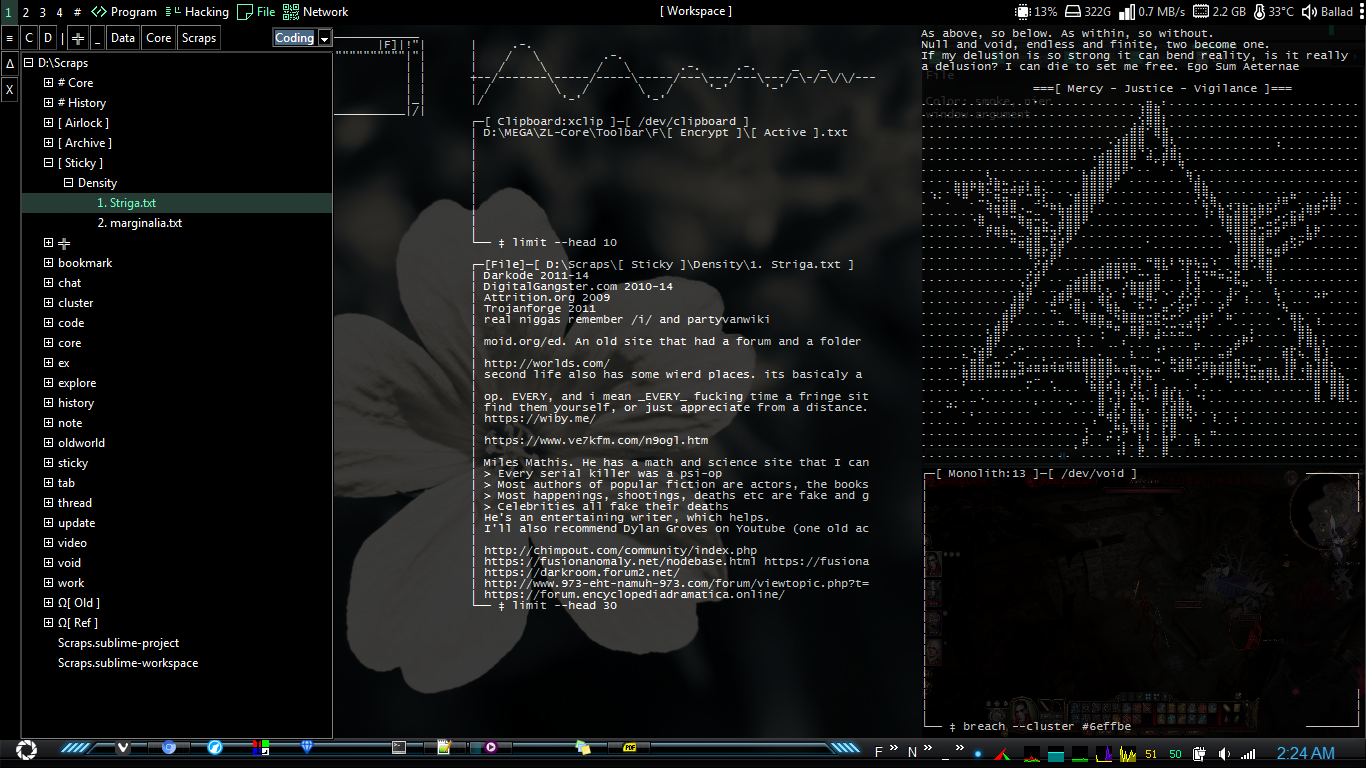
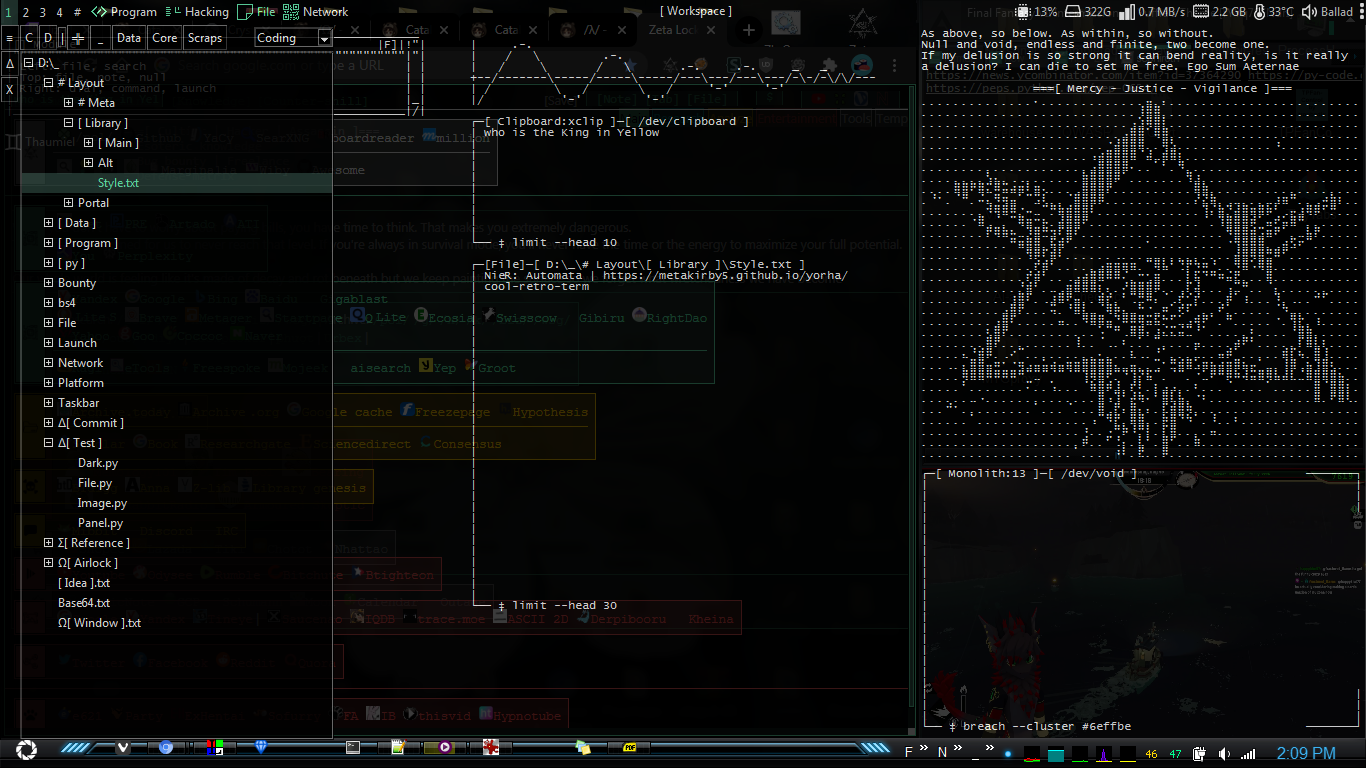
re-formatting module

diff --git a/[ Core ]/[ Program ]/Void.py b/[ Core ]/[ Program ]/Void.py
@@ -1,7 +1,6 @@
 import Zeta
 from Zeta.Image import Icon
-from Zeta.Panel.Window import Fallback as Panel
-from Zeta.Panel.Control.File import FileBox
+from Zeta.Panel import *
 
 import time
 import os
@@ -47,10 +46,11 @@ sidebarext.configure(bg=colorbg)
 sidebarext.withdraw()
 
 #root = Tk()
-# root = Toplevel(sidebar)
-root = Panel(color2='white', mode='basic')
+root = Toplevel(sidebar)
+# root = Window(color2='white', mode='basic')
 root.title('===[ Sidebar: File ]===')
 root.attributes('-topmost', True)
+root.attributes('-alpha', 0.77)
 root.geometry("333x715+1+25")
 root.overrideredirect(1)
 #root.option_add("*tearOff", False)
@@ -91,6 +91,7 @@ def toggle_overflow():
 	overflow_on = not overflow_on
 taskbar = Toplevel(sidebar)
 taskbar.attributes('-topmost', True)
+taskbar.attributes('-alpha', 0.77)
 taskbar.title('Taskbar')
 taskbar.geometry("1366x25+1+0")
 taskbar.overrideredirect(1)
@@ -152,6 +153,8 @@ msg1=r''' __________________________________________________________
 | Right: dial, command, launch                           | |
 |                                                        |_|
 |________________________________________________________|/|
+
+
 '''
 msg2=r'''
 |     .-.
@@ -345,7 +348,7 @@ class Controller():
 	def toggle_sidebar(child): toggle_sidebar()
 	def preview_file(child, path): preview_file(path)
 
-File1 = FileBox(root.frame, home=home, darkmode=True, controller=Controller())
+File1 = FileBox(root, home=home, darkmode=True, controller=Controller())
 
 #-------------------------------------------------------------------------------
 

diff --git a/_/[ Program ]/Void.py b/_/[ Program ]/Void.py
@@ -1,7 +1,6 @@
 import Zeta
 from Zeta.Image import Icon
-from Zeta.Panel.Window import Fallback as Panel
-from Zeta.Panel.Control.File import FileBox
+from Zeta.Panel import *
 
 import time
 import os
@@ -47,10 +46,11 @@ sidebarext.configure(bg=colorbg)
 sidebarext.withdraw()
 
 #root = Tk()
-# root = Toplevel(sidebar)
-root = Panel(color2='white', mode='basic')
+root = Toplevel(sidebar)
+# root = Window(color2='white', mode='basic')
 root.title('===[ Sidebar: File ]===')
 root.attributes('-topmost', True)
+root.attributes('-alpha', 0.77)
 root.geometry("333x715+1+25")
 root.overrideredirect(1)
 #root.option_add("*tearOff", False)
@@ -91,6 +91,7 @@ def toggle_overflow():
 	overflow_on = not overflow_on
 taskbar = Toplevel(sidebar)
 taskbar.attributes('-topmost', True)
+taskbar.attributes('-alpha', 0.77)
 taskbar.title('Taskbar')
 taskbar.geometry("1366x25+1+0")
 taskbar.overrideredirect(1)
@@ -152,6 +153,8 @@ msg1=r''' __________________________________________________________
 | Right: dial, command, launch                           | |
 |                                                        |_|
 |________________________________________________________|/|
+
+
 '''
 msg2=r'''
 |     .-.
@@ -345,7 +348,7 @@ class Controller():
 	def toggle_sidebar(child): toggle_sidebar()
 	def preview_file(child, path): preview_file(path)
 
-File1 = FileBox(root.frame, home=home, darkmode=True, controller=Controller())
+File1 = FileBox(root, home=home, darkmode=True, controller=Controller())
 
 #-------------------------------------------------------------------------------
 

diff --git a/[ Core ]/[ Program ]/[ Package ]/Zeta/Panel/Window.py b/[ Core ]/[ Program ]/[ Package ]/Zeta/Panel/Window.py
@@ -3,7 +3,7 @@ import Zeta
 from tkinter import *
 from .Toplevel2 import Toplevel2
 
-class Panel(Toplevel2):
+class Primary(Toplevel2):
     def __init__(self, draggable=False, border='mono', color=7, color2='', mode='basic', style='even', title='Title', *args, **kwargs):
         neon = Zeta.Color.Neon(color=color, color2=color2).hex
         hue = Zeta.Color.Neon(color=color, color2=color2).hue
@@ -21,7 +21,7 @@ class Panel(Toplevel2):
         gradient_frame = ColorFrame(self, color=color, color2=color2)
         gradient_frame.pack(side="top", fill="both", expand=True)
 
-        if mode=='basic': from .Wbasic import Decoration as ControlFrame
+        if mode=='basic': from .Decoration import Basic as ControlFrame
         if mode!='border':
             control_frame = ControlFrame(gradient_frame, color=color, color2=color2, title=title)
             control_frame.pack(side="top", fill="both", expand=True, padx=5, pady=5)
@@ -48,7 +48,7 @@ class Fallback(Toplevel2):
         #frame1['highlightthickness'] = 1
         frame1['background'] = neon
 
-        if mode=='basic': from .Wbasic import Decoration as ControlFrame
+        if mode=='basic': from .Decoration import Basic as ControlFrame
         if mode!='border':
             control_frame = ControlFrame(frame1, color=color, color2=color2, title=title)
             control_frame.pack(side="top", fill="both", expand=True, padx=1, pady=1)

diff --git a/[ Core ]/[ Program ]/[ Package ]/Zeta/Panel/Control/File.py b/[ Core ]/[ Program ]/[ Package ]/Zeta/Panel/Control/File.py
@@ -158,16 +158,15 @@ class FileBox(Frame):
 			self.populate_masters(self.tree)
 
 	def menu_detach(self):
-		from Zeta.Panel.Window import Panel
-		from Zeta.Panel.Control.File import FileBox as DetachBox
+		import Zeta.Panel
 		panelcolor = self.color2 if self.neonmode else self.colorfg
 		path = self.fullpath if os.path.isdir(self.fullpath) else os.path.split(self.fullpath)[0]
 
-		detached = Panel(border='mono', color2=panelcolor, mode='basic')
+		detached = Zeta.Panel.Window(border='mono', color2=panelcolor, mode='basic')
 		detached.attributes('-topmost', True)
 		detached.geometry("+333+25")
 		detached.attributes('-alpha', 0.77)
-		DetachBox(detached.frame, color2=self.color2, home=path, controller=self.parent, darkmode=self.darkmode, neonmode=self.neonmode)
+		Zeta.Panel.FileBox(detached.frame, color2=self.color2, home=path, controller=self.parent, darkmode=self.darkmode, neonmode=self.neonmode)
 
 	def menu_clear():
 		#os.execv(sys.argv[0], sys.argv)

diff --git a/[ Core ]/[ Program ]/[ Package ]/Zeta/Δ[ Test ]/File.py b/[ Core ]/[ Program ]/[ Package ]/Zeta/Δ[ Test ]/File.py
@@ -17,14 +17,14 @@ hue = Zeta.Color.Neon(color2='green').hue
 controller1 = Controller()
 
 imgx = Icon.Load(icon='alchemybw', icontype='bw').image
-frame1 = Frame(x1)
+frame1 = Frame(x1.frame)
 #imgx = Zeta.Image.Icon.Load(icon='alchemybw', icontype='bw').image
-b1 = Button(x1, text="Close", background=hue, relief='flat', command=x1.window.destroy, image=imgx)
+b1 = Button(x1.frame, text="Close", background=hue, relief='flat', command=x1.destroy, image=imgx)
 b1.pack(side="top")
 frame1.pack(side="top")
 
-FileBox(frame1, home=r'D:\Data', color2='green', darkmode=True, neonmode=True)
+FileBox(frame1, home=r'D:\Data', darkmode=True, neonmode=True, color2='green')
 
-x1.window.mainloop()
+x1.mainloop()
 
 

diff --git a/_/Δ[ Test ]/File.py b/_/Δ[ Test ]/File.py
@@ -17,14 +17,14 @@ hue = Zeta.Color.Neon(color2='green').hue
 controller1 = Controller()
 
 imgx = Icon.Load(icon='alchemybw', icontype='bw').image
-frame1 = Frame(x1)
+frame1 = Frame(x1.frame)
 #imgx = Zeta.Image.Icon.Load(icon='alchemybw', icontype='bw').image
-b1 = Button(x1, text="Close", background=hue, relief='flat', command=x1.window.destroy, image=imgx)
+b1 = Button(x1.frame, text="Close", background=hue, relief='flat', command=x1.destroy, image=imgx)
 b1.pack(side="top")
 frame1.pack(side="top")
 
 FileBox(frame1, home=r'D:\Data', darkmode=True, neonmode=True, color2='green')
 
-x1.window.mainloop()
+x1.mainloop()
 
 

diff --git a/[ Core ]/[ Program ]/[ Package ]/Zeta/Δ[ Test ]/Panel.py b/[ Core ]/[ Program ]/[ Package ]/Zeta/Δ[ Test ]/Panel.py
@@ -6,9 +6,9 @@ from tkinter import *
 x1 = Panel(border='gradient', color2='red', mode='basic')
 hue = Zeta.Color.Neon(color2='red').hue
 
-b1 = Button(x1, text="Close",command=x1.window.destroy)
-t1 = Text(x1, width=40, height=10, background=hue)
+b1 = Button(x1.frame, text="Close",command=x1.destroy)
+t1 = Text(x1.frame, width=40, height=10, background=hue)
 b1.pack(side="top")
 t1.pack(side="top", fill="both", expand=True)
 
-x1.window.mainloop()
+x1.mainloop()

diff --git a/_/Δ[ Test ]/Panel.py b/_/Δ[ Test ]/Panel.py
@@ -6,9 +6,9 @@ from tkinter import *
 x1 = Panel(border='gradient', color2='red', mode='basic')
 hue = Zeta.Color.Neon(color2='red').hue
 
-b1 = Button(x1, text="Close",command=x1.window.destroy)
-t1 = Text(x1, width=40, height=10, background=hue)
+b1 = Button(x1.frame, text="Close",command=x1.destroy)
+t1 = Text(x1.frame, width=40, height=10, background=hue)
 b1.pack(side="top")
 t1.pack(side="top", fill="both", expand=True)
 
-x1.window.mainloop()
+x1.mainloop()

diff --git a/[ Core ]/[ Program ]/[ Package ]/Zeta/Δ[ Test ]/Image.py b/[ Core ]/[ Program ]/[ Package ]/Zeta/Δ[ Test ]/Image.py
@@ -9,7 +9,7 @@ hue = Zeta.Color.Neon(color2='green').hue
 
 imgx = Icon.Load(icon='alchemybw', icontype='bw').image
 #imgx = Zeta.Image.Icon.Load(icon='alchemybw', icontype='bw').image
-b1 = Button(x1, text="Close", background=hue, relief='flat', command=x1.window.destroy, image=imgx)
+b1 = Button(x1.frame, text="Close", background=hue, relief='flat', command=x1.destroy, image=imgx)
 b1.pack(side="top")
 
-x1.window.mainloop()
+x1.mainloop()

diff --git a/_/Δ[ Test ]/Image.py b/_/Δ[ Test ]/Image.py
@@ -9,7 +9,7 @@ hue = Zeta.Color.Neon(color2='green').hue
 
 imgx = Icon.Load(icon='alchemybw', icontype='bw').image
 #imgx = Zeta.Image.Icon.Load(icon='alchemybw', icontype='bw').image
-b1 = Button(x1, text="Close", background=hue, relief='flat', command=x1.window.destroy, image=imgx)
+b1 = Button(x1.frame, text="Close", background=hue, relief='flat', command=x1.destroy, image=imgx)
 b1.pack(side="top")
 
-x1.window.mainloop()
+x1.mainloop()

diff --git a/[ Core ]/[ Program ]/[ Package ]/Zeta/Panel/Decoration.py b/[ Core ]/[ Program ]/[ Package ]/Zeta/Panel/Decoration.py
@@ -1,7 +1,7 @@
 import Zeta
 from tkinter import *
 
-class Decoration(Frame):
+class Basic(Frame):
 	def __init__(self, master, title='Title', color=7, color2=''):
 		self._color1 = Zeta.Color.Neon(color=color, color2=color2).hex
 		self._bg1 = Zeta.Color.Neon(color=color, color2=color2).hue

diff --git a/[ Core ]/[ Program ]/[ Package ]/Zeta/Panel/Toplevel2.py b/[ Core ]/[ Program ]/[ Package ]/Zeta/Panel/Toplevel2.py
@@ -3,6 +3,7 @@ from tkinter import *
 class Toplevel2(Toplevel):
     def __init__(self, *args, **kwargs):
         Toplevel.__init__(self, *args, **kwargs)
+        self.attributes('-alpha', 0.99)
 
     def start_move(self, event):
         self.x = event.x
